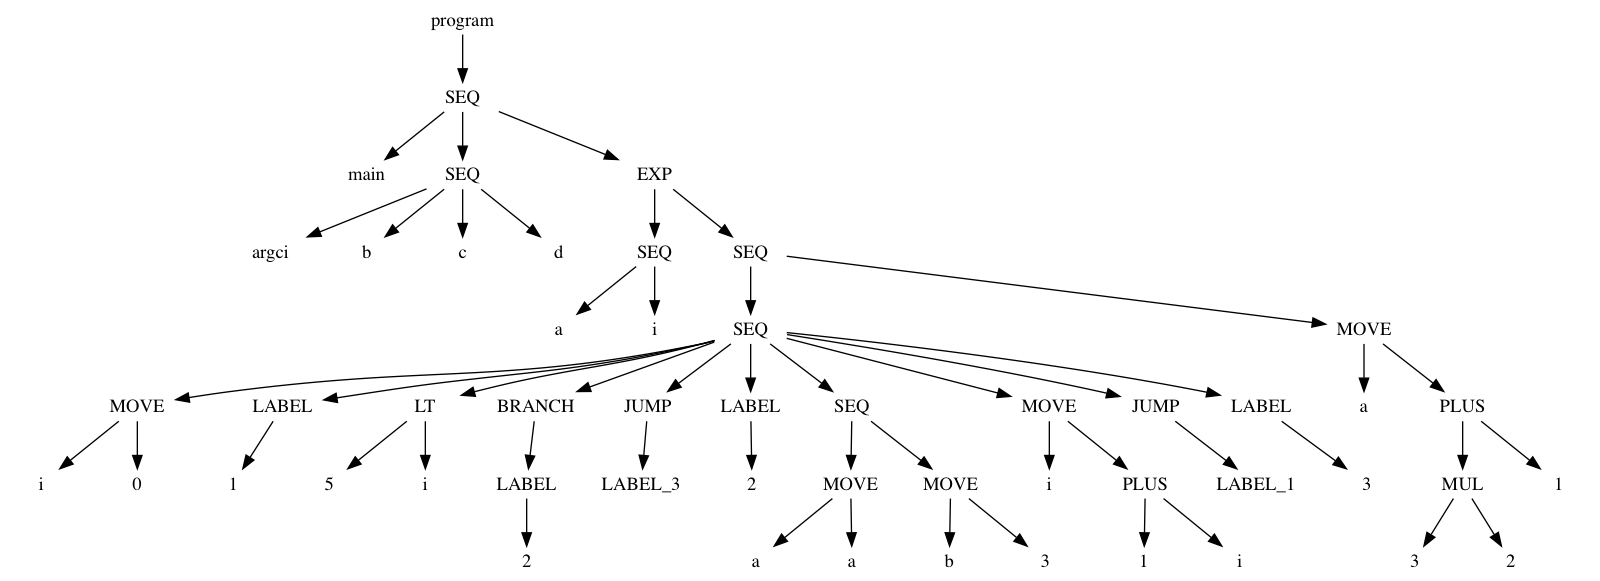
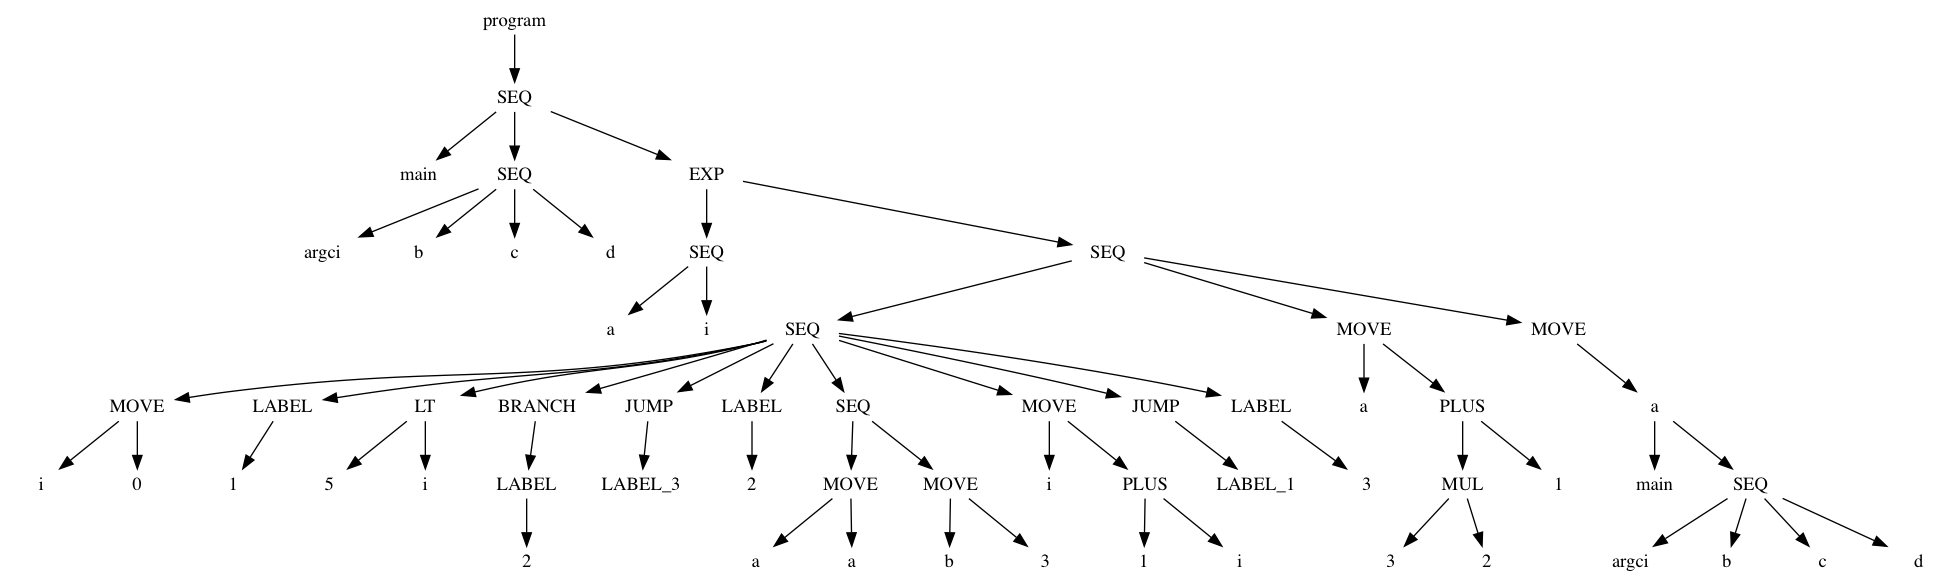
auto commit

diff --git a/semant.cpp b/semant.cpp
@@ -88,7 +88,7 @@ IR_NODE SEM_expression(ABS_expression expression) {
     } else if (expression->type == ENUM_compound_expression) {
         node = SEM_compound_expression(expression->compound_expression);
     } else {
-        cout << "Line" << line << ": " <<"Unknown expression" << endl;
+        cout << "Line" << line << ": " << "Unknown expression" << endl;
         exit(1);
     }
     cout << ")" << func_depth-- << endl;
@@ -164,12 +164,12 @@ IR_NODE SEM_constant(ABS_constant constant) {
 IR_NODE SEM_function_invoking(ABS_function_invoking function_invoking) {
     cout << "SEM_function_invoking(" << ++func_depth << endl;
     IR_NODE node = (IR_NODE) check_malloc(sizeof(_IR_NODE));
-    node->ir_node_type = IR_NODE_FUNC;
+    node->ir_node_type = IR_NODE_CALL;
     if (!curr_func->find(function_invoking->abs_id->id)) {
         cout << "Line" << line << ": " << "function id do not exist :" << function_invoking->abs_id->id;
         exit(1);
     }
-    node->left = SEM_ID(function_invoking->abs_id, ENUM_INT);
+    node->left = SEM_ID(function_invoking->abs_id, ENUM_VOID);
     node->right = SEM_argue_list(function_invoking->argue_list);
 
     ENUM_node_type node_type = curr_func->find(function_invoking->abs_id->id)->ret_type;
@@ -605,7 +605,7 @@ IR_NODE SEM_function_definition(ABS_function_definition function_definition) {
             cout << "Invalid type defined!" << endl;
             exit(1);
     }
-
+    curr_func->link(func.id, func);
     IR_NODE node = (IR_NODE) check_malloc(sizeof(_IR_NODE));
     node->ir_node_type = IR_NODE_FUNC;
     node->list.push_back(SEM_ID(function_definition->id, type));

diff --git a/IR.hpp b/IR.hpp
@@ -18,6 +18,7 @@ typedef enum {
     IR_NODE_CONST,
     IR_NODE_LEAF,
     IR_NODE_FUNC,
+    IR_NODE_CALL,
     IR_NODE_LABEL,
     IR_NODE_JUMP,
     IR_NODE_BRANCH,
